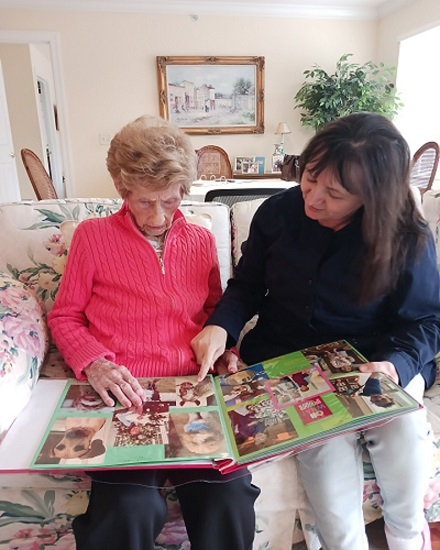
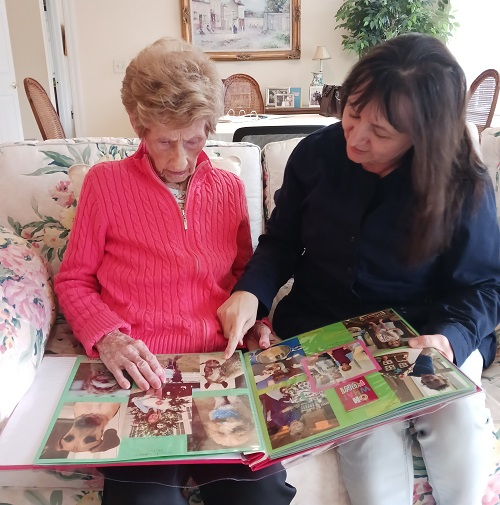
carousel padding removed

diff --git a/docs/main-es2015.js b/docs/main-es2015.js
@@ -52,7 +52,7 @@ module.exports = "<div class=\"container\">\n\t<ul ngbNav #nav=\"ngbNav\" [(acti
 /*! no static exports found */
 /***/ (function(module, exports) {
 
-module.exports = "<div id=\"myCarousel\" class=\"carousel slide\" data-bs-ride=\"carousel\">\n    <div class=\"carousel-indicators\">\n      <button type=\"button\" data-bs-target=\"#myCarousel\" data-bs-slide-to=\"0\" class=\"active\" aria-current=\"true\" aria-label=\"Slide 1\"></button>\n      <button type=\"button\" data-bs-target=\"#myCarousel\" data-bs-slide-to=\"1\" aria-label=\"Slide 2\"></button>\n      <button type=\"button\" data-bs-target=\"#myCarousel\" data-bs-slide-to=\"2\" aria-label=\"Slide 3\"></button>\n    </div>\n    <div class=\"carousel-inner\">\n      <div class=\"carousel-item active\">\n        <svg class=\"bd-placeholder-img\" width=\"100%\" height=\"100%\" xmlns=\"http://www.w3.org/2000/svg\" aria-hidden=\"true\" preserveAspectRatio=\"xMidYMid slice\" focusable=\"false\"><rect width=\"100%\" height=\"100%\" fill=\"#ffffff\"/></svg>\n       \n        <div class=\"d-flex justify-content-center\"><img src=\"assets/20230307_160528_sized.jpg\" alt=\"care pic 1\"></div>\n    \n        \n      </div>\n      <div class=\"carousel-item\">\n        <svg class=\"bd-placeholder-img\" width=\"100%\" height=\"100%\" xmlns=\"http://www.w3.org/2000/svg\" aria-hidden=\"true\" preserveAspectRatio=\"xMidYMid slice\" focusable=\"false\"><rect width=\"100%\" height=\"100%\" fill=\"#ffffff\"/></svg>\n        <div class=\"d-flex justify-content-center\"><img src=\"assets/20230424_073207.jpg\" alt=\"care pic 2\"></div>\n      \n        <div class=\"container\">\n          <div class=\"carousel-caption\">\n          </div>\n        </div>\n      </div>\n     \n    <button class=\"carousel-control-prev\" type=\"button\" data-bs-target=\"#myCarousel\" data-bs-slide=\"prev\">\n      <span class=\"carousel-control-prev-icon\" aria-hidden=\"true\"></span>\n      <span class=\"visually-hidden\">Previous</span>\n    </button>\n    <button class=\"carousel-control-next\" type=\"button\" data-bs-target=\"#myCarousel\" data-bs-slide=\"next\">\n      <span class=\"carousel-control-next-icon\" aria-hidden=\"true\"></span>\n      <span class=\"visually-hidden\">Next</span>\n    </button>\n  </div>"
+module.exports = "<div id=\"myCarousel\" class=\"carousel slide\" data-bs-ride=\"carousel\">\n    <div class=\"carousel-indicators\">\n      <button type=\"button\" data-bs-target=\"#myCarousel\" data-bs-slide-to=\"0\" class=\"active\" aria-current=\"true\" aria-label=\"Slide 1\"></button>\n      <button type=\"button\" data-bs-target=\"#myCarousel\" data-bs-slide-to=\"1\" aria-label=\"Slide 2\"></button>\n    </div>\n    <div class=\"carousel-inner\">\n      <div class=\"carousel-item active\">\n        <div class=\"d-flex justify-content-center\"><img src=\"assets/20230307_160528_sized.jpg\" alt=\"care pic 1\"></div>\n    \n        \n      </div>\n      <div class=\"carousel-item\">\n        <div class=\"d-flex justify-content-center\"><img src=\"assets/20230424_073207.jpg\" alt=\"care pic 2\"></div>\n      \n        <div class=\"container\">\n          <div class=\"carousel-caption\">\n          </div>\n        </div>\n      </div>\n     \n    <button class=\"carousel-control-prev\" type=\"button\" data-bs-target=\"#myCarousel\" data-bs-slide=\"prev\">\n      <span class=\"carousel-control-prev-icon\" aria-hidden=\"true\"></span>\n      <span class=\"visually-hidden\">Previous</span>\n    </button>\n    <button class=\"carousel-control-next\" type=\"button\" data-bs-target=\"#myCarousel\" data-bs-slide=\"next\">\n      <span class=\"carousel-control-next-icon\" aria-hidden=\"true\"></span>\n      <span class=\"visually-hidden\">Next</span>\n    </button>\n  </div>"
 
 /***/ }),
 
@@ -306,7 +306,7 @@ BootdropComponent = tslib__WEBPACK_IMPORTED_MODULE_0__["__decorate"]([
 /*! no static exports found */
 /***/ (function(module, exports) {
 
[2 lines of base64/hex data omitted]
 
 /***/ }),
 
@@ -459,7 +459,7 @@ ContactUsComponent = tslib__WEBPACK_IMPORTED_MODULE_0__["__decorate"]([
 /*! no static exports found */
 /***/ (function(module, exports) {
 
[2 lines of base64/hex data omitted]
 
 /***/ }),
 

diff --git a/docs/main-es5.js b/docs/main-es5.js
@@ -52,7 +52,7 @@ module.exports = "<div class=\"container\">\n\t<ul ngbNav #nav=\"ngbNav\" [(acti
 /*! no static exports found */
 /***/ (function(module, exports) {
 
-module.exports = "<div id=\"myCarousel\" class=\"carousel slide\" data-bs-ride=\"carousel\">\n    <div class=\"carousel-indicators\">\n      <button type=\"button\" data-bs-target=\"#myCarousel\" data-bs-slide-to=\"0\" class=\"active\" aria-current=\"true\" aria-label=\"Slide 1\"></button>\n      <button type=\"button\" data-bs-target=\"#myCarousel\" data-bs-slide-to=\"1\" aria-label=\"Slide 2\"></button>\n      <button type=\"button\" data-bs-target=\"#myCarousel\" data-bs-slide-to=\"2\" aria-label=\"Slide 3\"></button>\n    </div>\n    <div class=\"carousel-inner\">\n      <div class=\"carousel-item active\">\n        <svg class=\"bd-placeholder-img\" width=\"100%\" height=\"100%\" xmlns=\"http://www.w3.org/2000/svg\" aria-hidden=\"true\" preserveAspectRatio=\"xMidYMid slice\" focusable=\"false\"><rect width=\"100%\" height=\"100%\" fill=\"#ffffff\"/></svg>\n       \n        <div class=\"d-flex justify-content-center\"><img src=\"assets/20230307_160528_sized.jpg\" alt=\"care pic 1\"></div>\n    \n        \n      </div>\n      <div class=\"carousel-item\">\n        <svg class=\"bd-placeholder-img\" width=\"100%\" height=\"100%\" xmlns=\"http://www.w3.org/2000/svg\" aria-hidden=\"true\" preserveAspectRatio=\"xMidYMid slice\" focusable=\"false\"><rect width=\"100%\" height=\"100%\" fill=\"#ffffff\"/></svg>\n        <div class=\"d-flex justify-content-center\"><img src=\"assets/20230424_073207.jpg\" alt=\"care pic 2\"></div>\n      \n        <div class=\"container\">\n          <div class=\"carousel-caption\">\n          </div>\n        </div>\n      </div>\n     \n    <button class=\"carousel-control-prev\" type=\"button\" data-bs-target=\"#myCarousel\" data-bs-slide=\"prev\">\n      <span class=\"carousel-control-prev-icon\" aria-hidden=\"true\"></span>\n      <span class=\"visually-hidden\">Previous</span>\n    </button>\n    <button class=\"carousel-control-next\" type=\"button\" data-bs-target=\"#myCarousel\" data-bs-slide=\"next\">\n      <span class=\"carousel-control-next-icon\" aria-hidden=\"true\"></span>\n      <span class=\"visually-hidden\">Next</span>\n    </button>\n  </div>"
+module.exports = "<div id=\"myCarousel\" class=\"carousel slide\" data-bs-ride=\"carousel\">\n    <div class=\"carousel-indicators\">\n      <button type=\"button\" data-bs-target=\"#myCarousel\" data-bs-slide-to=\"0\" class=\"active\" aria-current=\"true\" aria-label=\"Slide 1\"></button>\n      <button type=\"button\" data-bs-target=\"#myCarousel\" data-bs-slide-to=\"1\" aria-label=\"Slide 2\"></button>\n    </div>\n    <div class=\"carousel-inner\">\n      <div class=\"carousel-item active\">\n        <div class=\"d-flex justify-content-center\"><img src=\"assets/20230307_160528_sized.jpg\" alt=\"care pic 1\"></div>\n    \n        \n      </div>\n      <div class=\"carousel-item\">\n        <div class=\"d-flex justify-content-center\"><img src=\"assets/20230424_073207.jpg\" alt=\"care pic 2\"></div>\n      \n        <div class=\"container\">\n          <div class=\"carousel-caption\">\n          </div>\n        </div>\n      </div>\n     \n    <button class=\"carousel-control-prev\" type=\"button\" data-bs-target=\"#myCarousel\" data-bs-slide=\"prev\">\n      <span class=\"carousel-control-prev-icon\" aria-hidden=\"true\"></span>\n      <span class=\"visually-hidden\">Previous</span>\n    </button>\n    <button class=\"carousel-control-next\" type=\"button\" data-bs-target=\"#myCarousel\" data-bs-slide=\"next\">\n      <span class=\"carousel-control-next-icon\" aria-hidden=\"true\"></span>\n      <span class=\"visually-hidden\">Next</span>\n    </button>\n  </div>"
 
 /***/ }),
 
@@ -312,7 +312,7 @@ var BootdropComponent = /** @class */ (function () {
 /*! no static exports found */
 /***/ (function(module, exports) {
 
[2 lines of base64/hex data omitted]
 
 /***/ }),
 
@@ -470,7 +470,7 @@ var ContactUsComponent = /** @class */ (function () {
 /*! no static exports found */
 /***/ (function(module, exports) {
 
[2 lines of base64/hex data omitted]
 
 /***/ }),
 

diff --git a/src/app/carousel/carousel.component.html b/src/app/carousel/carousel.component.html
@@ -2,18 +2,14 @@
     <div class="carousel-indicators">
       <button type="button" data-bs-target="#myCarousel" data-bs-slide-to="0" class="active" aria-current="true" aria-label="Slide 1"></button>
       <button type="button" data-bs-target="#myCarousel" data-bs-slide-to="1" aria-label="Slide 2"></button>
-      <button type="button" data-bs-target="#myCarousel" data-bs-slide-to="2" aria-label="Slide 3"></button>
     </div>
     <div class="carousel-inner">
       <div class="carousel-item active">
-        <svg class="bd-placeholder-img" width="100%" height="100%" xmlns="http://www.w3.org/2000/svg" aria-hidden="true" preserveAspectRatio="xMidYMid slice" focusable="false"><rect width="100%" height="100%" fill="#ffffff"/></svg>
-       
         <div class="d-flex justify-content-center"><img src="assets/20230307_160528_sized.jpg" alt="care pic 1"></div>
     
         
       </div>
       <div class="carousel-item">
-        <svg class="bd-placeholder-img" width="100%" height="100%" xmlns="http://www.w3.org/2000/svg" aria-hidden="true" preserveAspectRatio="xMidYMid slice" focusable="false"><rect width="100%" height="100%" fill="#ffffff"/></svg>
         <div class="d-flex justify-content-center"><img src="assets/20230424_073207.jpg" alt="care pic 2"></div>
       
         <div class="container">

diff --git a/src/app/carousel/carousel.component.css b/src/app/carousel/carousel.component.css
@@ -17,7 +17,7 @@ body {
   
   /* Declare heights because of positioning of img element */
   .carousel-item {
-  padding-bottom: 10%;
+  padding-bottom: 2%;
   background-size: cover;
   background-position: center;
   background-repeat: no-repeat;

diff --git a/src/app/headnav/headnav.component.css b/src/app/headnav/headnav.component.css
@@ -1,5 +1,6 @@
-
- 
+h1{
+  font-size:42px;
+}
 @media (min-width: 900px) { 
   h1 {
     font-size: 70px;
